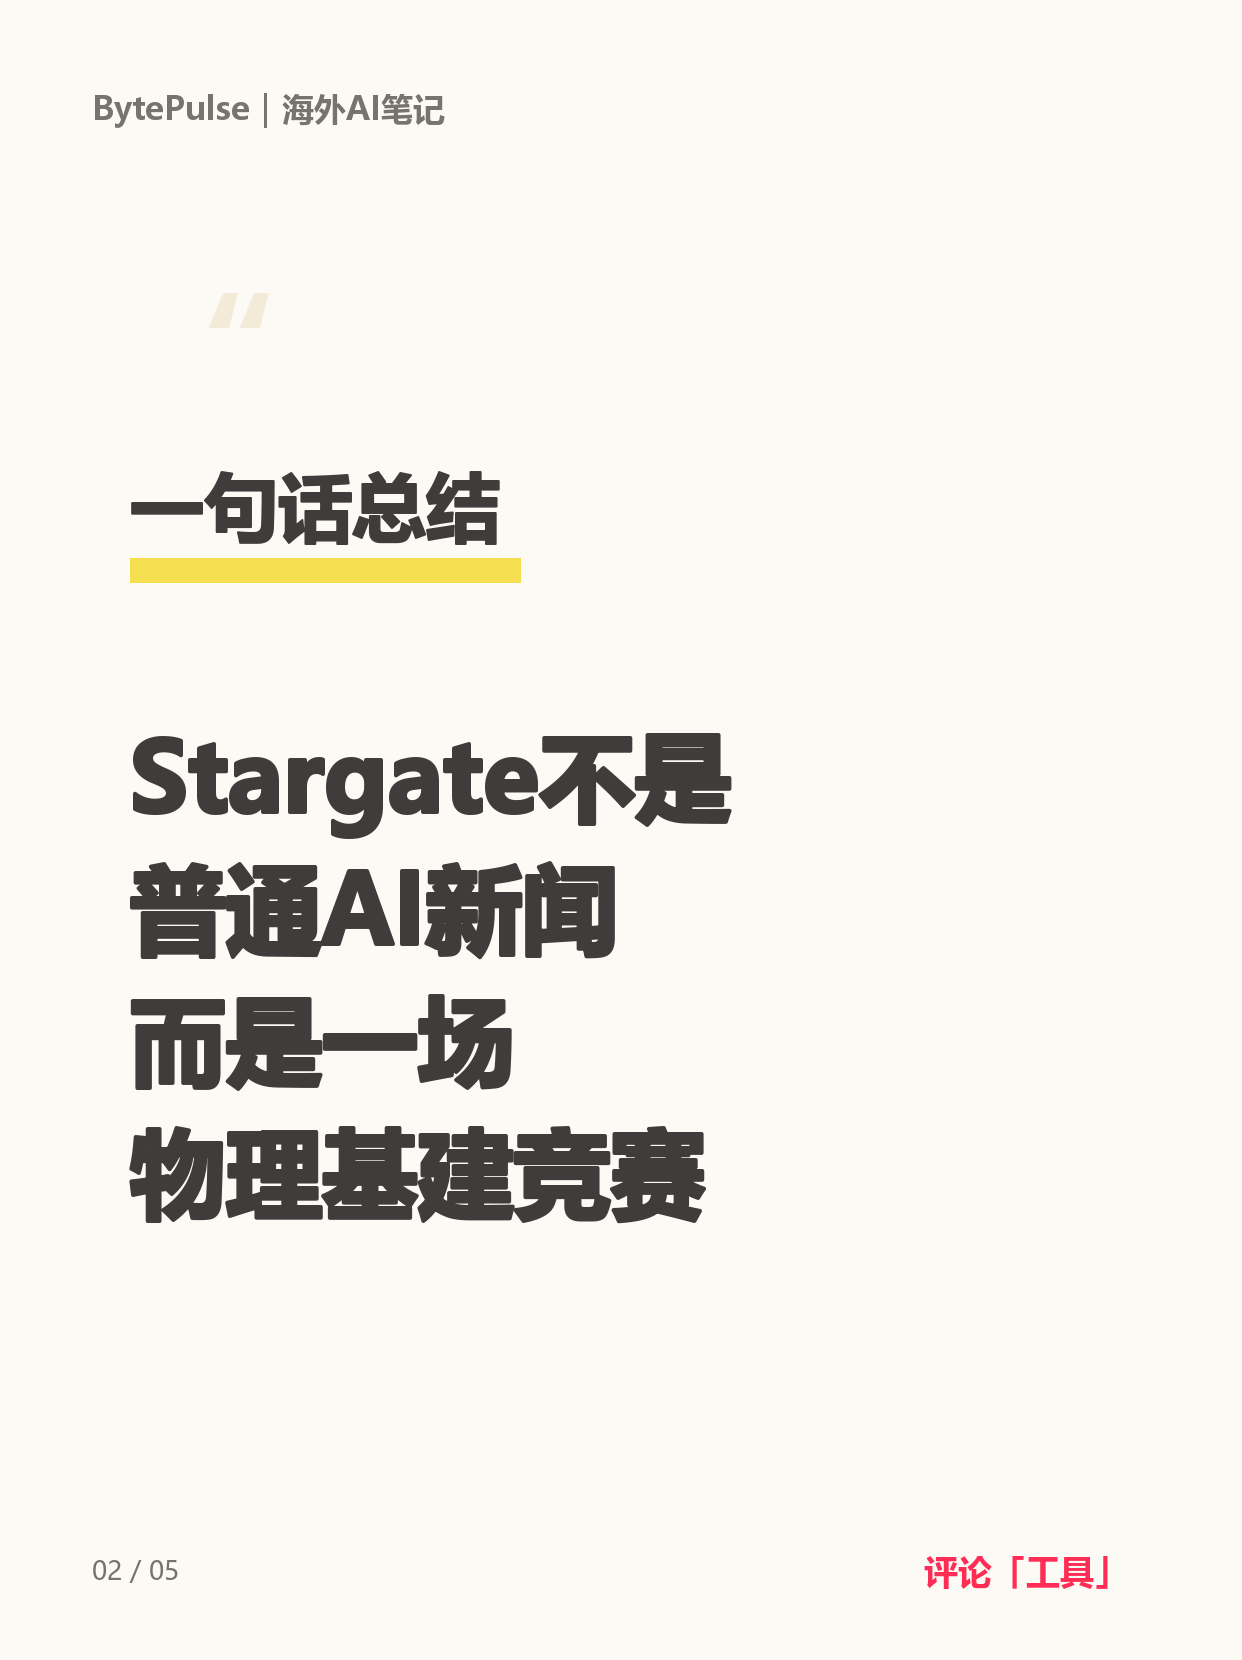
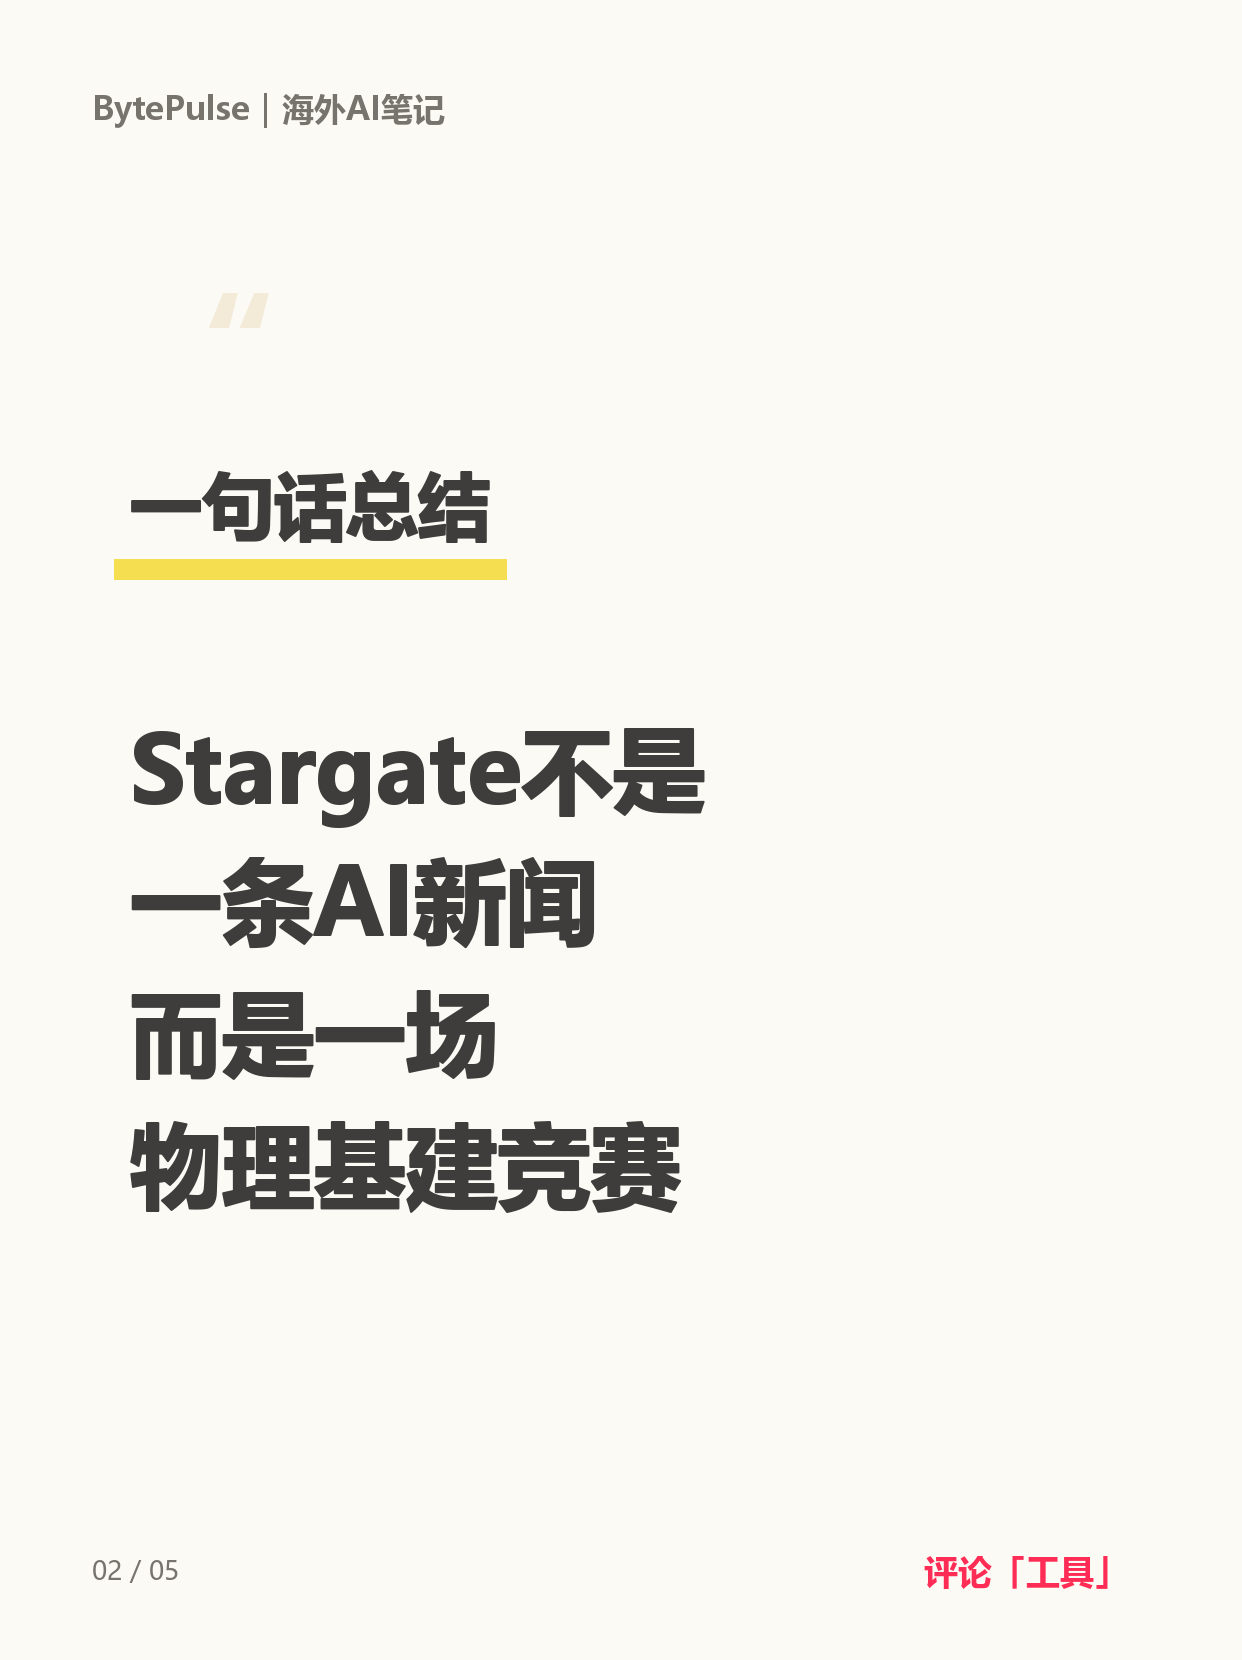
Refine Xiaohongshu card layout

diff --git a/service_mvp/xiaohongshu/post_001_stargate/generate_clean_cards.py b/service_mvp/xiaohongshu/post_001_stargate/generate_clean_cards.py
@@ -56,7 +56,7 @@ def draw_quote_mark(draw: ImageDraw.ImageDraw) -> None:
 
 
 def draw_highlight(draw: ImageDraw.ImageDraw, x: int, y: int, width: int) -> None:
-    draw.rectangle((x, y, x + width, y + 24), fill=YELLOW)
+    draw.rectangle((x, y, x + width, y + 20), fill=YELLOW)
 
 
 def draw_heavy(
@@ -68,6 +68,25 @@ def draw_heavy(
     stroke: int = 1,
 ) -> None:
     draw.text(xy, text, font=fnt, fill=fill, stroke_width=stroke, stroke_fill=fill)
+
+
+def underline_segment(
+    draw: ImageDraw.ImageDraw,
+    xy: tuple[int, int],
+    prefix: str,
+    segment: str,
+    fnt: ImageFont.FreeTypeFont,
+    stroke: int = 1,
+    pad_x: int = 16,
+    gap: int = 14,
+    height: int = 18,
+) -> None:
+    x, y = xy
+    start_x = x + text_width(draw, prefix, fnt)
+    width = text_width(draw, segment, fnt)
+    bbox = draw.textbbox((start_x, y), segment, font=fnt, stroke_width=stroke)
+    line_y = bbox[3] + gap
+    draw_highlight(draw, start_x - pad_x, line_y, width + pad_x * 2)
 
 
 def draw_multiline(
@@ -109,14 +128,17 @@ def make_card_1_v2() -> Image.Image:
     draw = ImageDraw.Draw(im)
     draw_brand(draw, "01 / 05")
     draw_quote_mark(draw)
-    x, y = 125, 610
-    big = font(112, True)
-    for line in ["我把 42 分钟", "英文 AI 视频", "整理成中文笔记"]:
-        draw_heavy(draw, (x, y), line, big, stroke=2)
-        if "AI" in line:
-            draw_highlight(draw, x + 455, y + 124, 320)
-        y += 166
-    draw.text((130, 1168), "OpenAI Stargate 数据中心讲了什么？", font=font(46, True), fill=MUTED)
+    x = 130
+    big = font(106, True)
+    lines = [
+        ("我把 42 分钟", 610),
+        ("英文 AI 视频", 780),
+        ("整理成中文笔记", 970),
+    ]
+    for line, y in lines:
+        draw_heavy(draw, (x, y), line, big, stroke=1)
+    underline_segment(draw, (x, 780), "英文 AI ", "视频", big, stroke=1, gap=18)
+    draw.text((130, 1228), "OpenAI Stargate 数据中心讲了什么？", font=font(44, True), fill=MUTED)
     return im
 
 
@@ -151,12 +173,13 @@ def make_card_2_v2() -> Image.Image:
     draw = ImageDraw.Draw(im)
     draw_brand(draw, "02 / 05")
     draw_quote_mark(draw)
-    draw_heavy(draw, (130, 455), "一句话总结", font(74, True), stroke=1)
-    draw_highlight(draw, 130, 558, 390)
-    big = font(96, True)
-    y = 710
-    for line in ["Stargate不是", "普通AI新闻", "而是一场", "物理基建竞赛"]:
-        draw_heavy(draw, (130, y), line, big, stroke=2)
+    title = font(72, True)
+    draw_heavy(draw, (130, 455), "一句话总结", title, stroke=1)
+    underline_segment(draw, (130, 455), "", "一句话总结", title, stroke=1, gap=16, height=18)
+    big = font(92, True)
+    y = 705
+    for line in ["Stargate不是", "一条AI新闻", "而是一场", "物理基建竞赛"]:
+        draw_heavy(draw, (130, y), line, big, stroke=1)
         y += 132
     return im
 
@@ -183,14 +206,15 @@ def make_card_3_v2() -> Image.Image:
     im = Image.new("RGB", (W, H), BG)
     draw = ImageDraw.Draw(im)
     draw_brand(draw, "03 / 05")
-    draw_heavy(draw, (130, 340), "是否值得看？", font(84, True), stroke=1)
-    draw_heavy(draw, (130, 525), "4 / 5", font(178, True), stroke=2)
-    draw_highlight(draw, 135, 718, 390)
-    body = font(70, True)
-    y = 920
+    draw_heavy(draw, (130, 335), "是否值得看？", font(82, True), stroke=1)
+    score = font(172, True)
+    draw_heavy(draw, (130, 520), "4 / 5", score, stroke=1)
+    underline_segment(draw, (130, 520), "", "4 / 5", score, stroke=1, gap=12, height=18)
+    body = font(66, True)
+    y = 910
     for line in ["值得。它讲清了", "AI背后的真实成本：", "算力、电力、冷却", "土地和供应链"]:
         draw_heavy(draw, (130, y), line, body, stroke=1)
-        y += 104
+        y += 100
     return im
 
 
@@ -220,19 +244,20 @@ def make_card_4_v2() -> Image.Image:
     draw = ImageDraw.Draw(im)
     draw_brand(draw, "04 / 05")
     draw_heavy(draw, (130, 245), "我整理出的", font(74, True), stroke=1)
-    draw_heavy(draw, (130, 345), "4 个核心观点", font(100, True), stroke=2)
-    draw_highlight(draw, 492, 474, 520)
+    headline = font(98, True)
+    draw_heavy(draw, (130, 345), "4 个核心观点", headline, stroke=1)
+    underline_segment(draw, (130, 345), "4 个", "核心观点", headline, stroke=1, gap=16, height=18)
     items = [
         "软件瓶颈变成物理瓶颈",
         "AI 数据中心开始逐电而居",
         "AI 基建像下一代超级公路",
         "碳中和承诺被算力需求冲击",
     ]
-    y = 650
+    y = 660
     for idx, item in enumerate(items, 1):
-        draw_heavy(draw, (130, y), f"{idx}.", font(70, True), fill=RED, stroke=1)
-        y = draw_multiline(draw, item, (230, y - 4), font(64, True), max_width=850, line_gap=16)
-        y += 54
+        draw_heavy(draw, (130, y), f"{idx}.", font(66, True), fill=RED, stroke=1)
+        y = draw_multiline(draw, item, (230, y - 2), font(60, True), max_width=860, line_gap=16)
+        y += 58
     return im
 
 
@@ -259,16 +284,17 @@ def make_card_5_v2() -> Image.Image:
     im = Image.new("RGB", (W, H), BG)
     draw = ImageDraw.Draw(im)
     draw_brand(draw, "05 / 05")
-    draw_heavy(draw, (130, 315), "你发YouTube链接", font(76, True), stroke=1)
-    draw_heavy(draw, (130, 430), "我整理成中文笔记", font(94, True), stroke=2)
-    draw_highlight(draw, 130, 552, 700)
+    draw_heavy(draw, (130, 315), "你发YouTube链接", font(74, True), stroke=1)
+    headline = font(90, True)
+    draw_heavy(draw, (130, 430), "我整理成中文笔记", headline, stroke=1)
+    underline_segment(draw, (130, 430), "", "我整理成中文笔记", headline, stroke=1, gap=16, height=18)
     items = ["是否值得看", "核心观点", "详细笔记", "术语解释", "行动清单", "Markdown 文件"]
     y = 715
     for index, item in enumerate(items):
         col = 130 if index % 2 == 0 else 630
         row_y = y + (index // 2) * 128
         draw.ellipse((col, row_y + 24, col + 26, row_y + 50), fill=RED)
-        draw_heavy(draw, (col + 54, row_y), item, font(50, True), stroke=1)
+        draw_heavy(draw, (col + 54, row_y), item, font(48, True), stroke=1)
     draw.rounded_rectangle((130, 1220, 685, 1345), radius=12, fill=RED)
     draw_heavy(draw, (190, 1250), "评论「工具」", font(60, True), fill="white", stroke=1)
     return im
